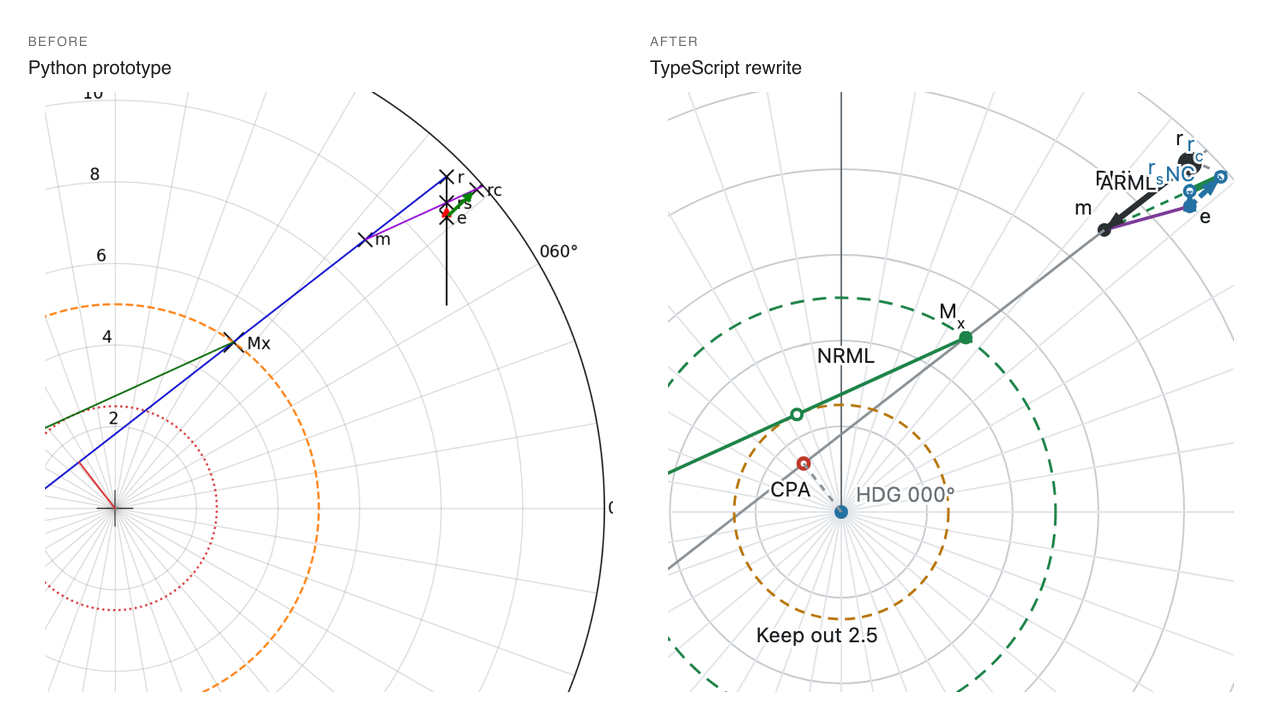
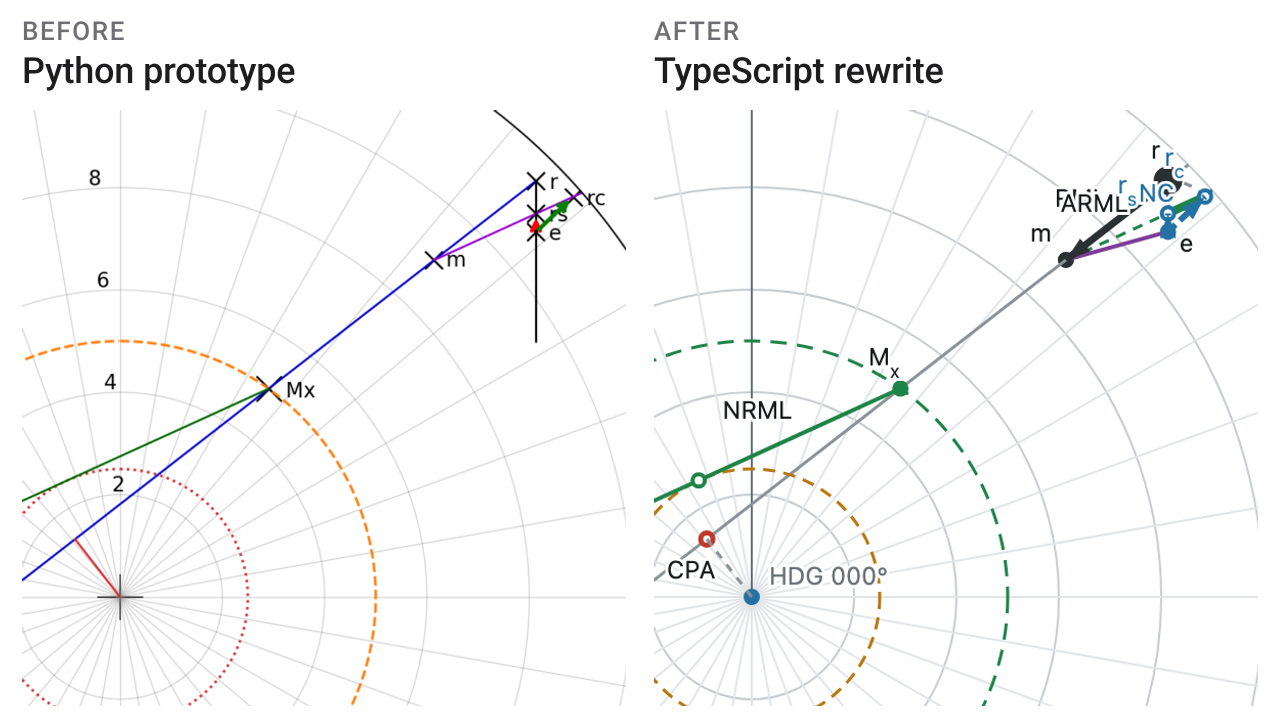
fix: match the comparison figure's two panels, and give the detail its own block
THE FRAMING. The two panels were cropped by eye, which put the prototype's
plot centre low-left and the rewrite's near the middle, so they read as two
different problems rather than one problem twice. Both sources are 12 nm
maneuvering board sheets, so the crop is computable rather than a matter of
taste: locate each plot's own-ship origin and its px/nm, then take the SAME
rectangle of nautical miles out of each.

Measured, two independent ways per sheet:

  prototype-plot.png  origin 670.5,728.0   5 nm dashed circle r=252.25 -> 50.45 px/nm
                                          12 nm spine circle r=604    -> 50.33 px/nm
  moboard-board.png   origin 601.5,599.5   2.5 nm dashed circle r=125.5 -> 50.20 px/nm
                                          12 nm outer ring r=599.5    -> 49.96 px/nm

The dashed-circle radii run a shade high because a bounding box includes the
stroke, so the outer-ring figure is the one used. Shared window: 11.80 nm east
to west by 11.64 nm north to south, own ship at 16.1% from the left and 81.6%
from the top, holding own ship, the CPA, the Mx ring crossing and the whole
vector triangle while dropping the decorative outer rings. Both panels land at
about 1.02x of source, so neither is meaningfully resampled.

It is CHECKED, not asserted. Each panel carries an orange dashed circle
concentric with own ship, so own ship can be recovered from the finished pixels
(from the circle's top and right edges -- the window clips both circles on the
[…]

diff --git a/src/lib/caseStudies.ts b/src/lib/caseStudies.ts
@@ -253,6 +253,14 @@ const CASE_STUDIES: Readonly<Record<string, CaseStudy>> = {
           'The same encounter, worked by both implementations. They agree on all nine reported values. All scenarios synthetic.',
       },
       {
+        kind: 'image',
+        src: '/images/case-studies/radar-moboard-vectors.png',
+        alt: "A close-up of the maneuvering board's vector triangle, with the points r, e and m labelled, the relative motion line running between them, and the dashed adjusted line the maneuver produces.",
+        title: 'The vector triangle, close up',
+        caption:
+          "The construction the whole answer rests on: own ship's vector, the contact's, and the relative motion between them, with the adjusted line the maneuver produces. All scenarios synthetic.",
+      },
+      {
         kind: 'video',
         src: '/video/radar-moboard-board.mp4',
         poster: '/video/radar-moboard-board-poster.png',
